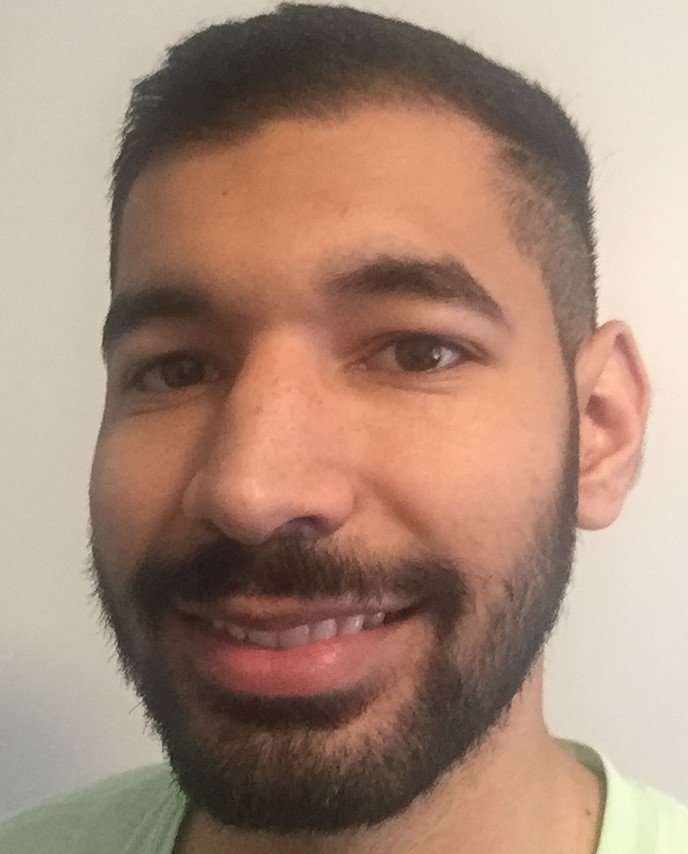
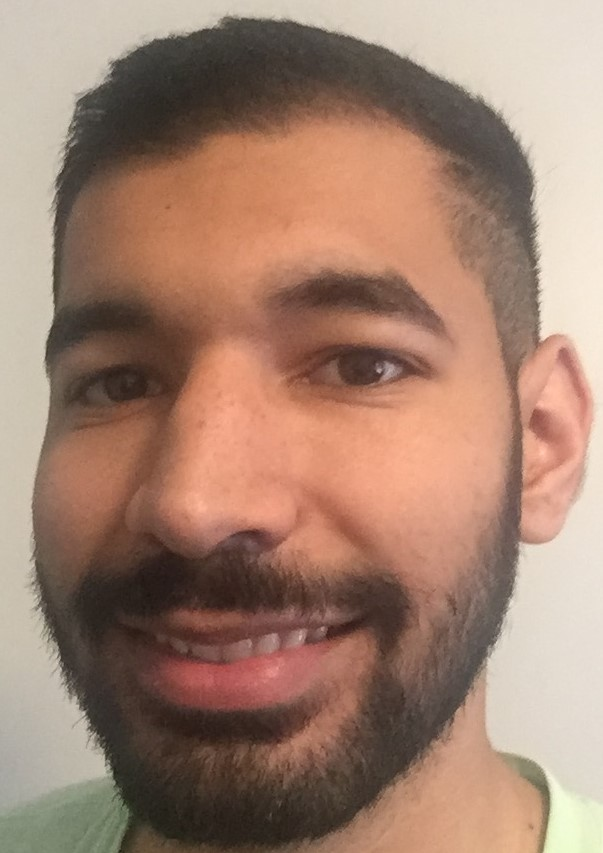
Edited profile image size and linked about me page to main

diff --git a/index.html b/index.html
@@ -106,7 +106,11 @@
                     <div class="inner">
 						<h5>Jordan Barrios</h5>
                         <p class="subtitle">*Insert Team Role*</p>
-                        <div class="avatar"><img src="img/team/jordan_profile.JPG" alt="" class="img-responsive img-circle" /></div>
+                        <div class="avatar">
+                            <a href="Jordan/startbootstrap-creative-gh-pages/startbootstrap-creative-gh-pages">
+                                <img src="img/team/jordan_profile.JPG" alt="" class="img-responsive img-circle" />
+                            </a>
+                        </div>
                     </div>
                 </div>
 				</div>
